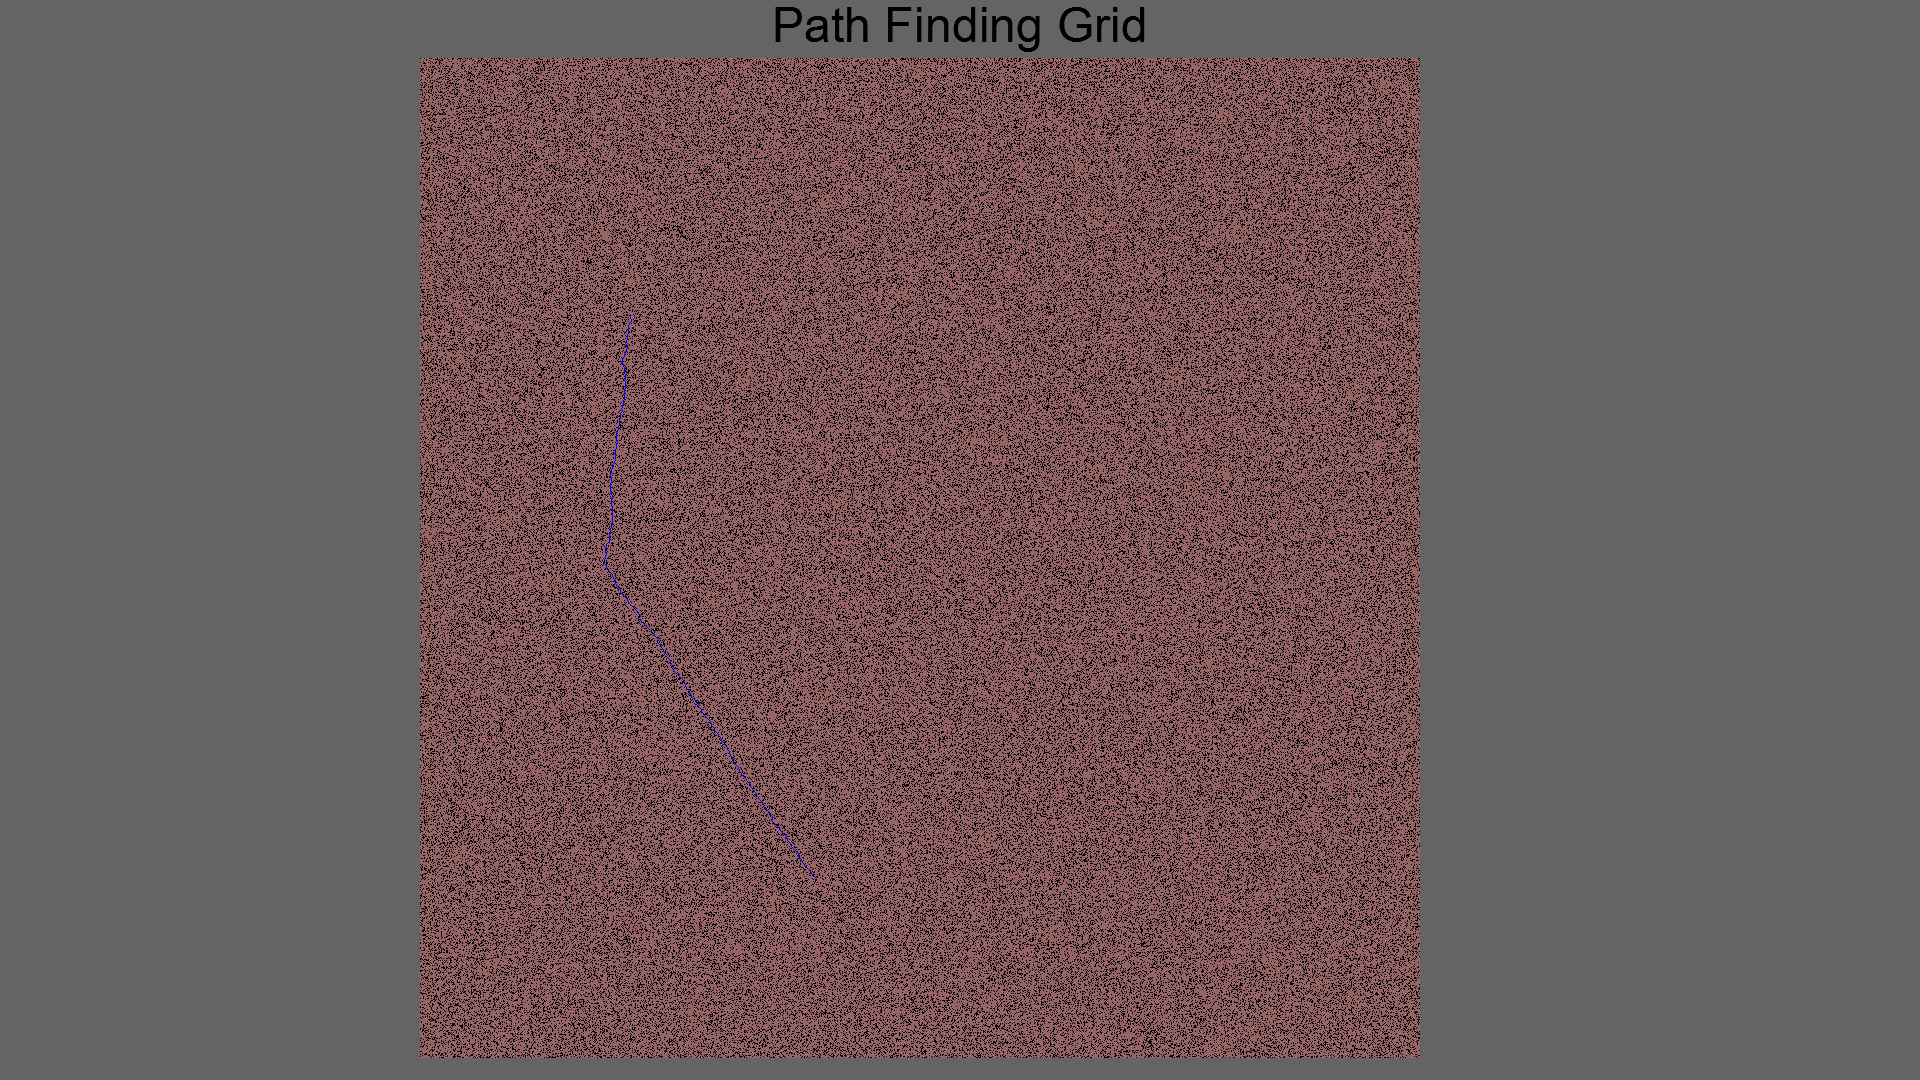
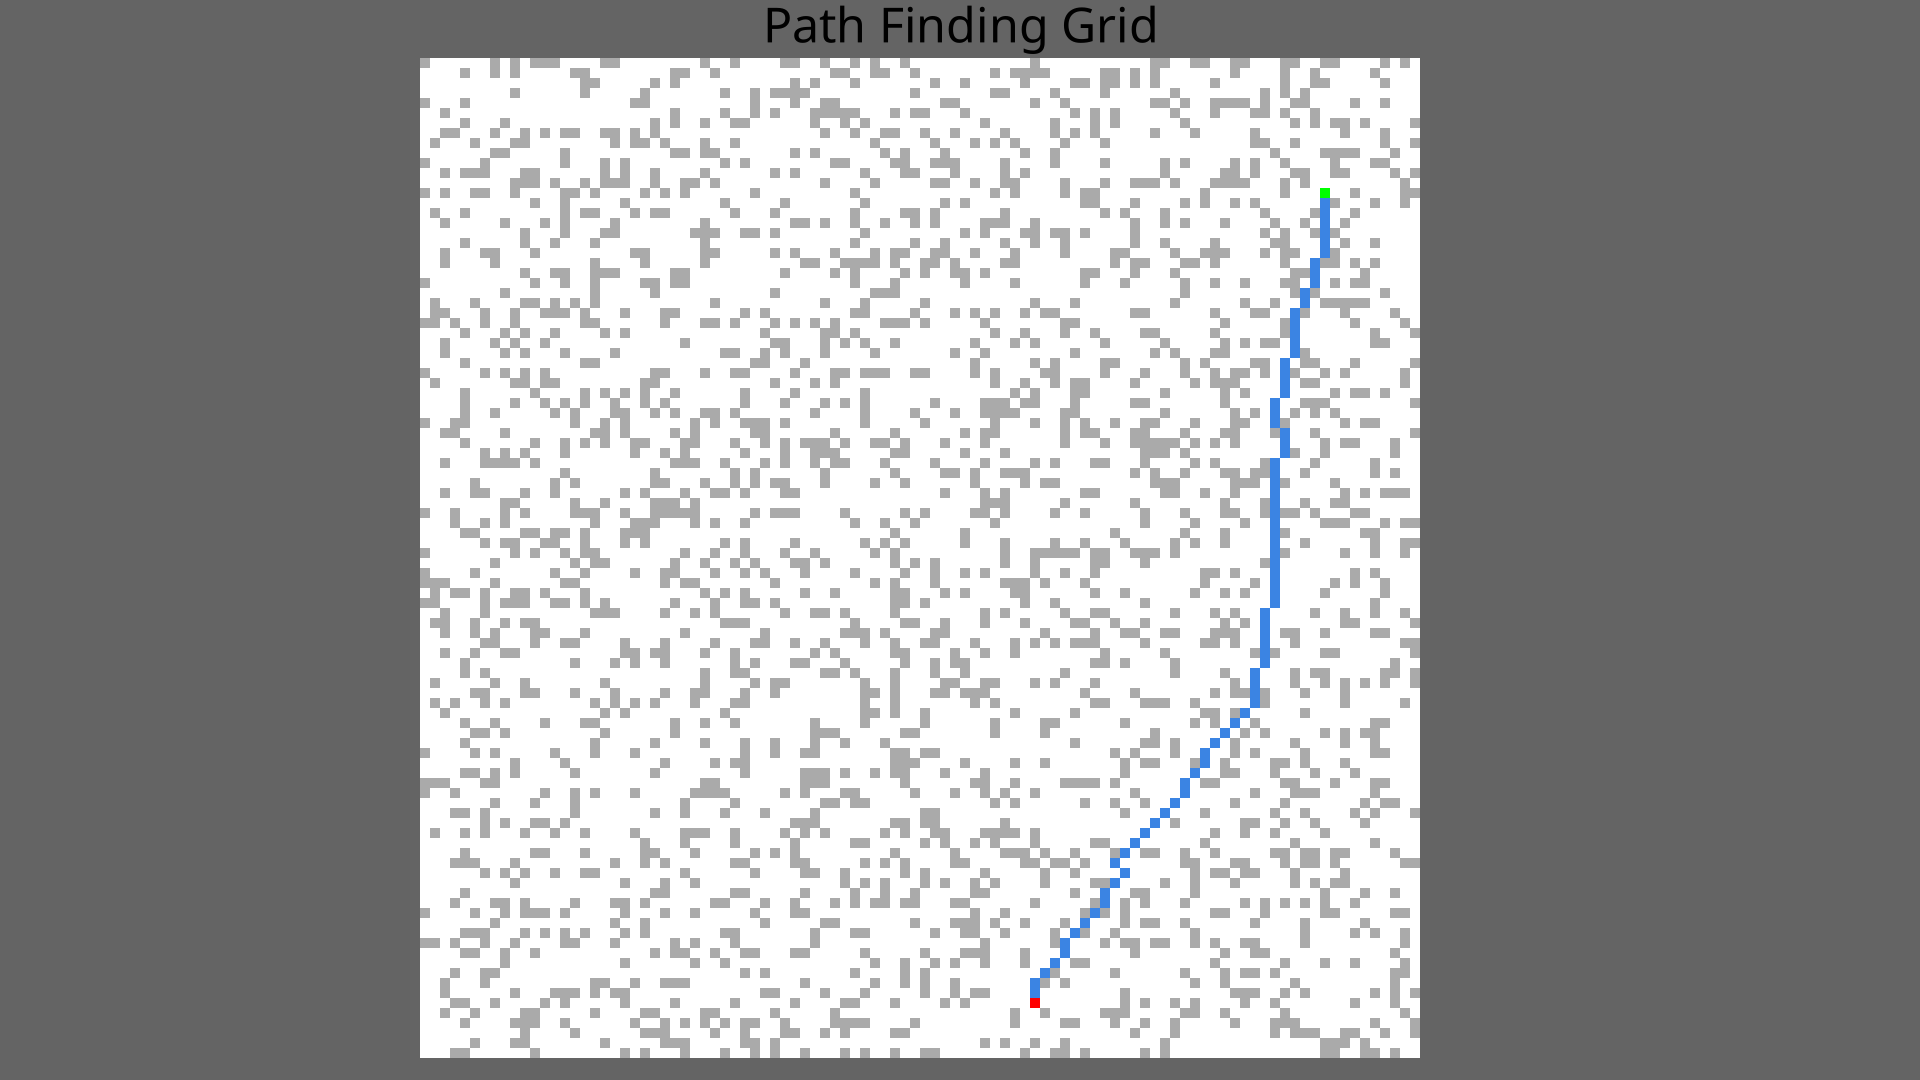
Working on partial observable probabilistic algorithm

diff --git a/src/main.rs b/src/main.rs
@@ -1,4 +1,3 @@
-
 use pathfinding::prelude::astar;
 use pathfinding::prelude::Grid;
 use plotters::coord::Shift;
@@ -13,12 +12,13 @@ fn plot_grid(
 )-> Result<(), Box<dyn std::error::Error>>{
     let sub_areas = drawing_area.split_evenly((grid.width, grid.height));
     let red = 150;
+    const BLUE: plotters::style::RGBColor = RGBColor(59, 132, 227);
     for (idx, sub_area) in (0..).zip(sub_areas.iter()) {
         if grid.has_vertex((idx % grid.width, idx / grid.width)) {
-            sub_area.fill(&RGBColor(red, 100, 100))?;
+            sub_area.fill(&WHITE)?;
             // sub_area.titled(&idx.to_string(), ("sans-serif", 30))?;
         } else {
-            sub_area.fill(&BLACK)?;
+            sub_area.fill(&GREY_A200)?;
         }
     }
     if let Some(path) = path {
@@ -51,43 +51,84 @@ fn random_grid(width: usize, height: usize, seed: u64) -> Grid {
 }
 
 pub mod search_algorithms;
+use plotters::style::full_palette::GREY_A200;
 use search_algorithms::bfs::bfs;
 use search_algorithms::dfs::dfs;
+use ndarray;
+
+fn detect(ground: Grid, mut perceived: Grid, (x, y): (usize, usize), kernel: ndarray::Array2<bool>) {
+    // The Kernel should be centred on the location
+    // x - nrows//2 + i
+    // y - ncols//2 + j
+    for i in 0..kernel.nrows() {
+        for j in 0..kernel.ncols() {
+            if kernel[[i, j]] {
+                let row = x - kernel.nrows()/2 + i;
+                let col = y - kernel.ncols()/2 + j;
+                if row in  {
+                    match ground.has_vertex((row, col)) {
+                        true => ,
+                        false =>,
+                    }}
+            }
+        }
+    }
+}
 
 fn main() -> Result<(), Box<dyn std::error::Error>> {
 
     use rand::Rng;
-    let grid = random_grid(1000, 1000, 131);
+    let grid = random_grid(100, 100, 131);
     let mut rng = rand::thread_rng();
     let goal = grid.iter().nth(rng.gen_range(0..grid.vertices_len())).unwrap();
     let start = grid.iter().nth(rng.gen_range(0..grid.vertices_len())).unwrap();
-    let successors_weighted = |p: &(usize, usize)| grid.neighbours(*p).iter().map(|&p| (p, 20*p.0)).collect::<Vec<_>>();
+    let successors_weighted = |p: &(usize, usize)| grid.neighbours(*p).iter().map(|&p| (p, 1)).collect::<Vec<_>>();
     let mut successors = |p: &(usize, usize)| grid.neighbours(*p);
     let mut success = |p: &(usize, usize)| *p == goal;
-
+    let mut heuristic = |p| grid.distance(*p, goal);
     let result_astar:Option<(Vec<(usize, usize)>, usize)>  = astar(
                         &start,
                          successors_weighted,
-                         |p| grid.distance(*p, goal),
+                         heuristic,
                           |p| *p == goal
                         );
     match result_astar {
-        Some((path, _cost)) => save_result(Some(path), grid.clone(), start, goal, "astar.png")?,
-        None => save_result(None, grid.clone(), start, goal, "astar.png")?
+        Some((path, _cost)) => save_result(Some(path), grid.clone(), start, goal, "astar.png", "Ground truth")?,
+        None => save_result(None, grid.clone(), start, goal, "astar.png", "Ground Truth (Impossible)")?
     }
-                
-    let result_bfs: Option<Vec<(usize, usize)>> = bfs(start, &mut successors, &mut success);
-    // let result_dfs = dfs(start, &mut successors, &mut success);
 
-    match result_bfs {
-        Some(path) => save_result(Some(path), grid.clone(), start, goal, "bfs.png")?,
-        None => save_result(None, grid.clone(), start, goal, "bfs.png")?
+    // Take the ground truth and run a convolution with noise to create a probability interpretation of the grid
+
+    // Use the probability map to instantiate world-hypotheses and plan on them
+
+    // Step through the proposed solutions, voting on the next move and updating agent's map of the world?
+    // Replan either every step or when encountering newly perceived terrain/lack of
+    // 
+    // Run the simulation
+    let mut current = start.clone();
+    let guess = random_grid(100, 100, 2);
+    let mut steps: usize = 0;
+    while !success(&current) {
+        let guess_astar = astar(&start, successors_weighted, heuristic, |p| *p == goal);
+
+        match guess_astar {
+            Some((path, _cost)) => {save_result(Some(path), guess.clone(), start, goal, "astar.png", &format!("Guessed path {steps}"))?;
+                                                                current = path.first().unwrap().clone()},
+            None => {save_result(None, guess.clone(), start, goal, "astar.png", &format!("Guessed path {steps} (impossible)"))?; break},
+        }
+        // Take 1 step and update position and visible graph
+        
+        steps += 1;
     }
-    // match result_dfs {
-    //     Some(path) => save_result(Some(path), grid.clone(), start, goal, "dfs.png")?,
-    //     None => save_result(None, grid.clone(), start, goal, "dfs.png")?
-    // }
+
     
+                
+    // let result_bfs: Option<Vec<(usize, usize)>> = bfs(start, &mut successors, &mut success);
+
+    // match result_bfs {
+    //     Some(path) => save_result(Some(path), grid.clone(), start, goal, "bfs.png")?,
+    //     None => save_result(None, grid.clone(), start, goal, "bfs.png")?
+    // }
 
     Ok(())
 }
@@ -97,6 +138,7 @@ fn save_result(
     grid: Grid, start: (usize, usize),
     goal: (usize, usize),
     file_name: &str,
+    title: &str,
 ) -> Result<(), Box<dyn std::error::Error>> {
     // let _ = plot_path(result.unwrap().0);
     const OUT_FILE_DIR: &str = "plotters-doc-data/";
@@ -104,7 +146,7 @@ fn save_result(
     let root = BitMapBackend::new(&out_file_name, (1920, 1080)).into_drawing_area();
     root.fill(&RGBColor(100,100,100))?;
     let root = root
-    .titled("Path Finding Grid", ("sans-serif", 60))?
+    .titled(title, ("sans-serif", 60))?
     .shrink(((1920 - 1080) / 2, 0), (1000, 1000));
     match result {
         Some(path) => plot_grid(&grid, &root, &start, &goal, Some(&path))?,
@@ -114,6 +156,33 @@ fn save_result(
     root.present().expect("Unable to write result to file, please make sure 'plotters-doc-data' dir exists under current dir");
     println!("Result has been saved to {}", out_file_name);
     Ok(())
+}
+
+mod safe_interval_astar {
+    use pathfinding::prelude::Grid;
+    use super::random_grid;
+    use std::collections::HashMap;
+    type Pos = (usize, usize);
+    // Generate a grid, apply the dynamic obstacles to create safe intervals
+    // Run djikstra_all for a heuristic
+    // Create the neighbours function
+    struct PosWithIntervals {
+        position: Pos,
+        safe_intervals: Vec<(usize, usize)>
+    }
+
+    struct NodeWithInterval(Pos, usize);
+
+    fn prepare_grid() {
+        let grid: Grid = random_grid(300, 300, 10);
+        let mut interval_grid: HashMap<Pos, PosWithIntervals> = HashMap::new();
+        for vertex in grid.iter() {
+            interval_grid.insert(vertex, PosWithIntervals { position: vertex, safe_intervals: vec![(0, 99)] });
+        }
+    }
+
+    
+
 }
 
 mod safe_interval_path_planning {
